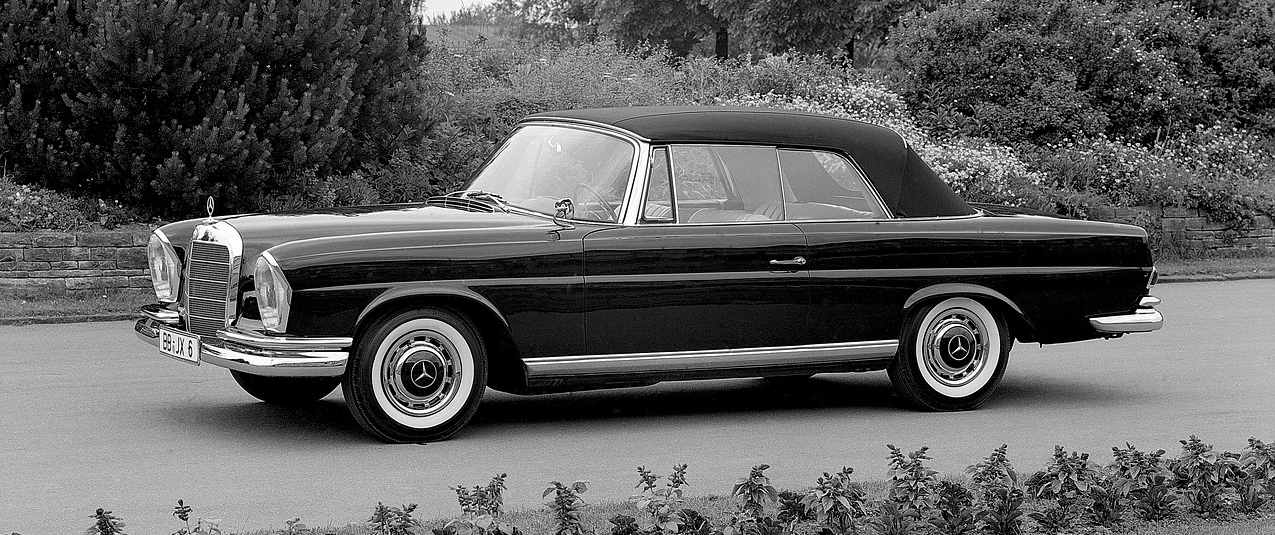
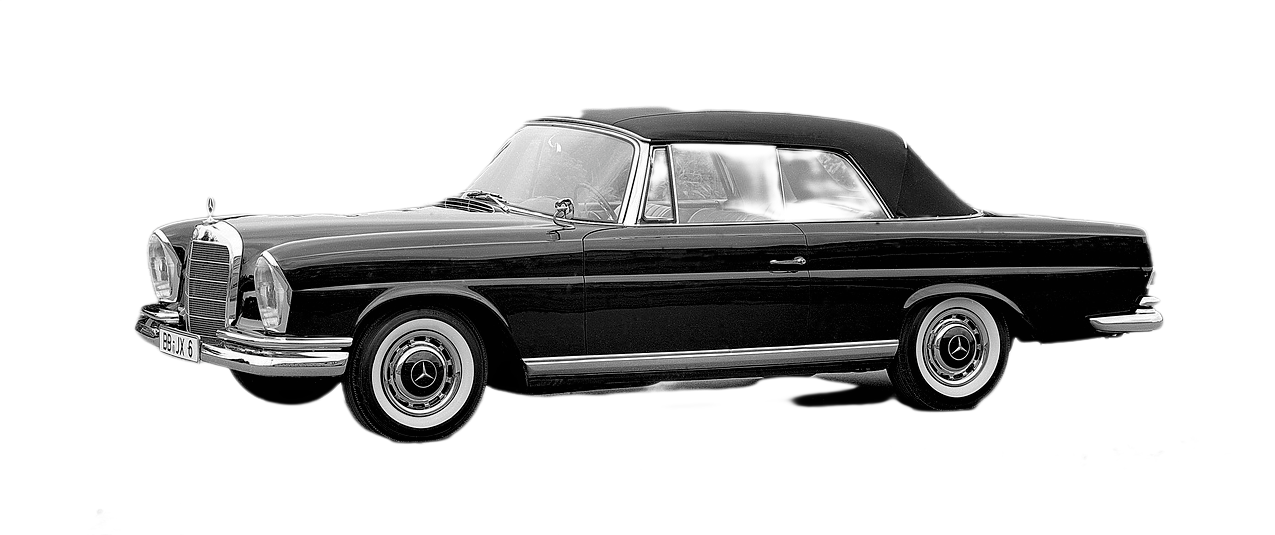
feat: changed image background

diff --git a/src/constant/index.ts b/src/constant/index.ts
@@ -51,31 +51,31 @@ export const VEHICLE_FLEET_DATA = {
     {
       id: 1,
       name: "Volkswagen Polo",
-      image: "/volkswagen-polo.jpg",
+      image: "/volkswagen-polo.png",
       price: "Rs. 4,999/day",
     },
     {
       id: 2,
       name: "Neta V",
-      image: "/netaV.jpg",
+      image: "/netaV.png",
       price: "Rs. 4,999/day",
     },
     {
       id: 3,
       name: "BYD Atto 3",
-      image: "/BYD_Atto_3.jpg",
+      image: "/BYD_Atto_3.png",
       price: "Rs. 4,999/day",
     },
     {
       id: 4,
       name: "Nexon Prime",
-      image: "/nexon-ev.avif",
+      image: "/nexon-ev.png",
       price: "Rs. 4,999/day",
     },
     {
       id: 5,
       name: "Nexon Max",
-      image: "/nexonmax.jpeg",
+      image: "/nexonmax.png",
       price: "Rs. 4,999/day",
     },
   ],
@@ -109,13 +109,13 @@ export const VEHICLE_FLEET_DATA = {
     {
       id: 2,
       name: "Audi",
-      image: "/audi-vintage.webp",
+      image: "/audi-vintage.png",
       price: "Please contact us",
     },
     {
       id: 3,
       name: "Beetle",
-      image: "/beetle-vintage.webp",
+      image: "/beetle-vintage.png",
       price: "Please contact us",
     },
   ],
@@ -123,13 +123,13 @@ export const VEHICLE_FLEET_DATA = {
     {
       id: 1,
       name: "Datsun Go Plus 7 seater",
-      image: "/datsun-go-plus.jpg",
+      image: "/datsun-go-plus.png",
       price: "Rs. 5,999/day",
     },
     {
       id: 2,
       name: "Scorpio",
-      image: "/Scorpio.jpg",
+      image: "/Scorpio.png",
       price: "Rs. 5,999/day",
     },
   ],
@@ -137,8 +137,22 @@ export const VEHICLE_FLEET_DATA = {
     {
       id: 1,
       name: "Bus",
-      image: "/bus.jpeg",
+      image: "/bus.png",
       price: "Rs. 12,999/day",
+    },
+  ],
+  Van: [
+    {
+      id: 1,
+      name: "Foton Electric Van",
+      image: "/Foton-Electric.png",
+      price: "Rs. 4,999/day",
+    },
+    {
+      id: 2,
+      name: "Toyota Hiace",
+      image: "/toyota-hiace.png",
+      price: "Rs. 4,999/day",
     },
   ],
 };
